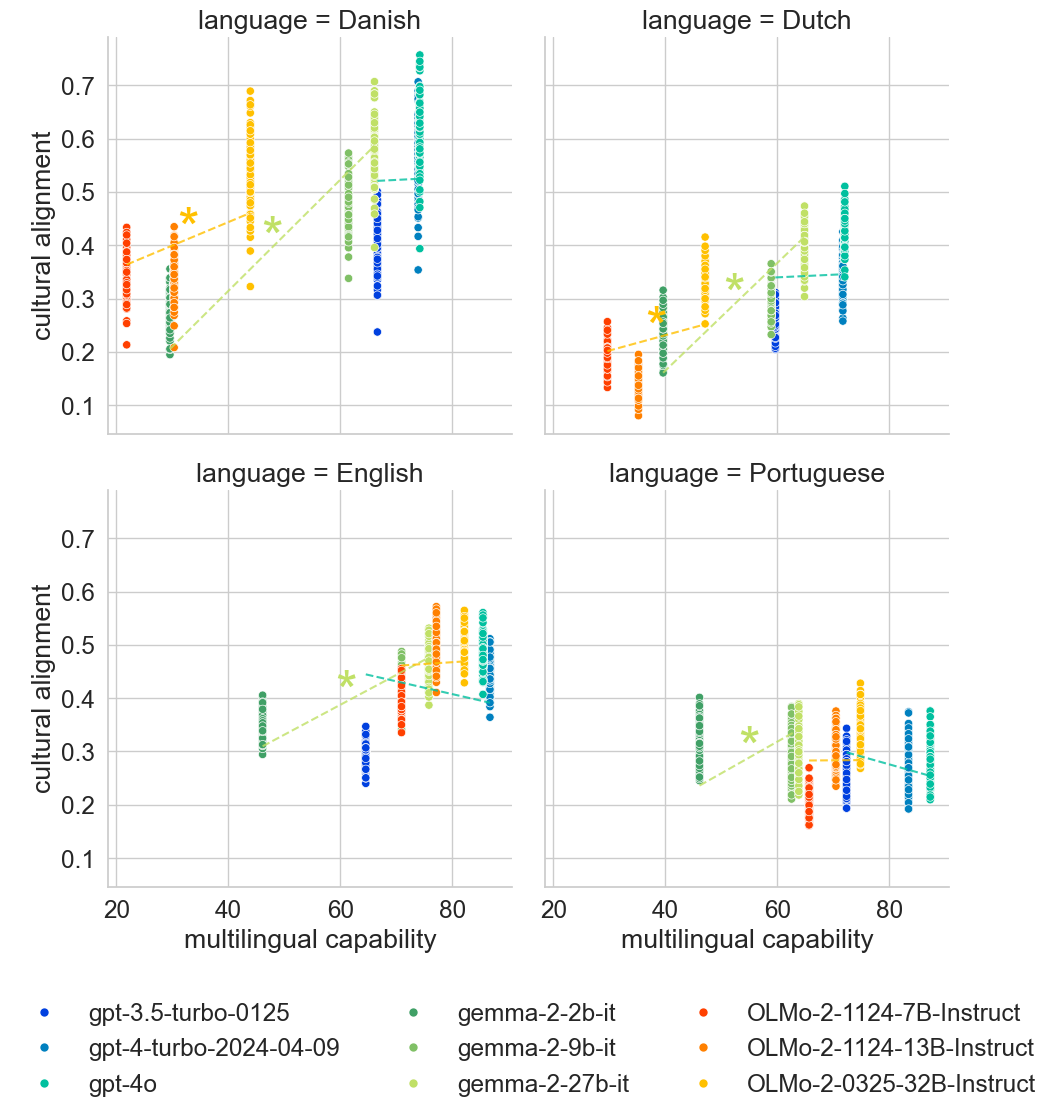
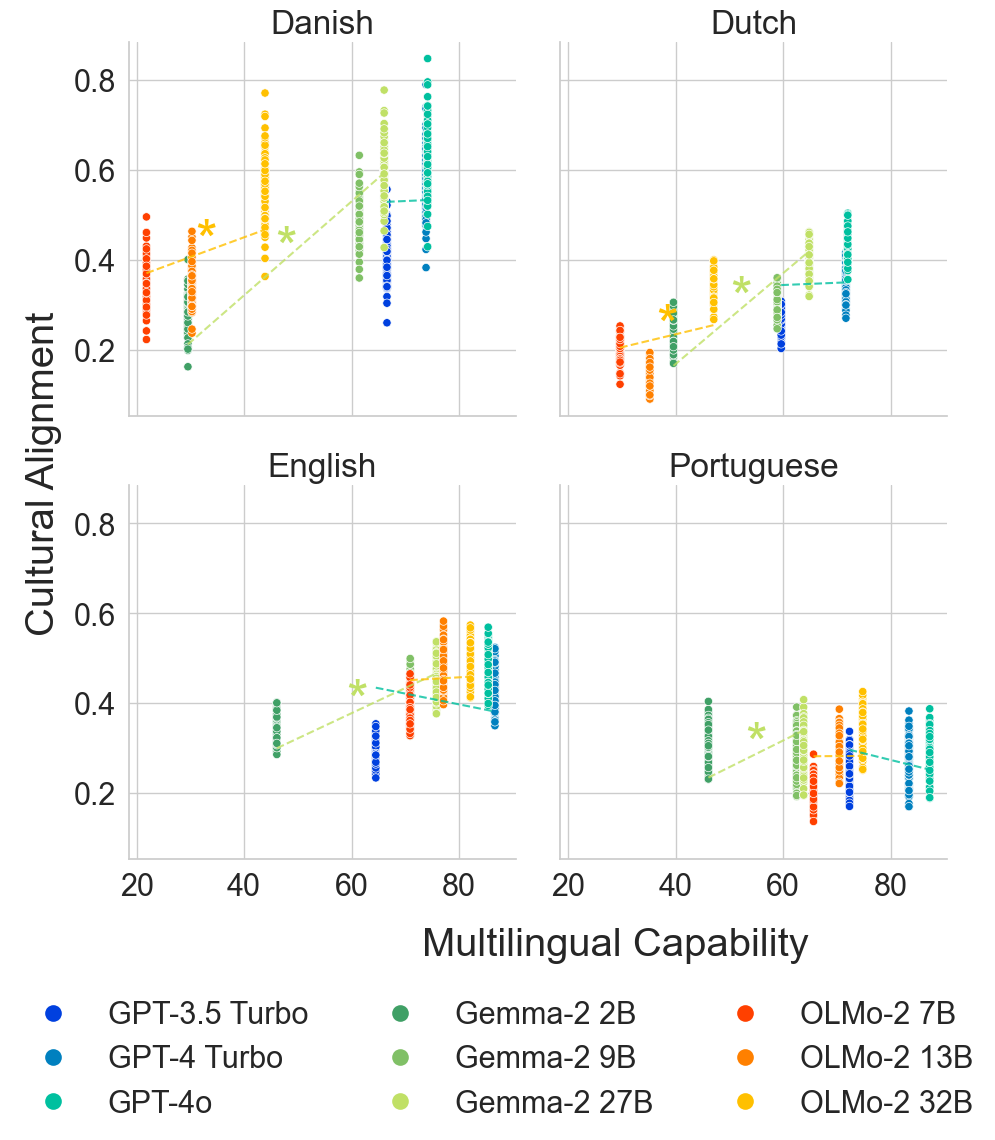
update plots

diff --git a/scripts/plot_multilingual_benchmarks.py b/scripts/plot_multilingual_benchmarks.py
@@ -12,7 +12,7 @@ from tqdm import tqdm
 
 from multicultural_alignment.constants import COUNTRY_LANG_MAP, LANGUAGE_MAP, OUTPUT_DIR, PLOT_DIR
 from multicultural_alignment.models import add_families_df, get_model_enum
-from multicultural_alignment.plot import get_family_color_dict, get_model_color_dict
+from multicultural_alignment.plot import get_family_color_dict, get_model_color_dict, rename_color_dict
 from multicultural_alignment.regression import extract_results_df, extract_term, save_regression_results
 
 
@@ -40,6 +40,17 @@ MODEL_NAME_MAPPING = {
 ADJUSTMENT_FORMULAS = {
     "interaction": "alignment ~ 0 + consistency:language + language:model_name",
     "normal": "alignment ~ 0 + consistency + language:model_name",
+}
+CLEAN_MODEL_NAMES = {
+    "gpt-3.5-turbo-0125": "GPT-3.5 Turbo",
+    "gpt-4-turbo-2024-04-09": "GPT-4 Turbo",
+    "gpt-4o": "GPT-4o",
+    "gemma-2-2b-it": "Gemma-2 2B",
+    "gemma-2-9b-it": "Gemma-2 9B",
+    "gemma-2-27b-it": "Gemma-2 27B",
+    "OLMo-2-1124-7B-Instruct": "OLMo-2 7B",
+    "OLMo-2-1124-13B-Instruct": "OLMo-2 13B",
+    "OLMo-2-0325-32B-Instruct": "OLMo-2 32B",
 }
 
 
@@ -258,13 +269,20 @@ if __name__ == "__main__":
         "--regression-type",
         type=str,
         choices=["normal", "no_consistency", "interaction"],
-        default="normal",
+        default="interaction",
         help="Type of regression to use for plotting coefficients",
+    )
+    parser.add_argument(
+        "--font-scale",
+        type=float,
+        default=1.6,
+        help="Scale of the font in the plots",
     )
     args = parser.parse_args()
     regression_type = args.regression_type
+    font_scale = args.font_scale
+    sns.set_theme(font_scale=font_scale, style="whitegrid")
 
-    sns.set_theme(font_scale=1.6, style="whitegrid")
     benchmarks = get_benchmark_data()
     experiment_data = get_experiment_data()
     regression_data = get_language_regression_data(benchmarks=benchmarks, experiment_data=experiment_data)
@@ -278,8 +296,11 @@ if __name__ == "__main__":
         multilingual_coefficients=multilingual_coefficients,
         regression_data=regression_data,
         regression_type=regression_type,
+    ).with_columns(
+        pl.col("model_name").replace(CLEAN_MODEL_NAMES),
     )
 
+    color_dict = rename_color_dict(color_dict=get_model_color_dict(), new_names=CLEAN_MODEL_NAMES)
     plot = sns.relplot(
         data=benchmark_alignment,
         x="multilingual capability",
@@ -287,7 +308,8 @@ if __name__ == "__main__":
         hue="model_name",
         col="language",
         col_wrap=2,
-        palette=get_model_color_dict(),
+        facet_kws={"sharey": True, "sharex": True},
+        palette=color_dict,
     )
 
     # Now add regression lines for each language and family
@@ -323,5 +345,10 @@ if __name__ == "__main__":
                 offset = (ax.get_ylim()[1] - ax.get_ylim()[0]) * 0.05
                 ax.text(x_mid, y_mid - offset, "*", ha="center", va="bottom", color=family_colours[family], fontsize=40)
 
-    sns.move_legend(plot, "upper center", bbox_to_anchor=(0.41, -0.0), ncol=3, title=None)
+    sns.move_legend(plot, "upper center", bbox_to_anchor=(0.41, -0.0), ncol=3, title=None, markerscale=2.0)
+    plot.set_titles(col_template="{col_name}")
+    plot.set_axis_labels("", "")
+    plot.figure.supxlabel("Multilingual Capability")
+    plot.figure.supylabel("Cultural Alignment", x=0.05)
+    # Increase size of the dot marker in the legend
     plt.savefig(PLOT_DIR / "multilingual_benchmarks_alignment-model.png", bbox_inches="tight")

diff --git a/scripts/analyze_batch.py b/scripts/analyze_batch.py
@@ -2,10 +2,11 @@ import json
 from pathlib import Path
 
 import pandas as pd
+import polars as pl
 
 import multicultural_alignment.score as score
 from multicultural_alignment import fileio
-from multicultural_alignment.constants import OUTPUT_DIR
+from multicultural_alignment.constants import DATA_DIR, OUTPUT_DIR
 from multicultural_alignment.data import get_family_data, get_family_string
 from multicultural_alignment.models import MODEL_FAMILIES, get_model_family, get_model_name
 from multicultural_alignment.schemas import AnalysisResponse
@@ -95,7 +96,7 @@ def get_data_pipeline():
 
     # full_df = pd.concat([full_openai_mistral, full_gpt4o, full_gemma], ignore_index=True).reset_index(drop=True)
     # assert full_df.loc[0, "model"].startswith("gpt-4-turbo"), "Model name does not start with gpt-4-turbo"
-    full_df.to_csv("data/lang_model_responses_raw.csv", index=False)
+    full_df.to_csv(DATA_DIR / "lang_model_responses_raw.csv", index=False)
 
     ground_truth = pd.read_csv(OUTPUT_DIR / "ground_truth.csv").rename(columns={"pro_score": "ground_truth_pro_score"})
     all_results = (
@@ -106,7 +107,7 @@ def get_data_pipeline():
     all_results = all_results.assign(
         model_family=all_results["model"].apply(get_model_family), model_name=all_results["model"].apply(get_model_name)
     )
-    all_results["model_name"].unique()
+    pl.from_pandas(all_results).write_parquet(DATA_DIR / "lang_model_responses_with_scores.parquet")
 
     columns_to_save = [
         "model_name",

diff --git a/scripts/prepare_data_for_hf.py b/scripts/prepare_data_for_hf.py
@@ -1,0 +1,31 @@
+import polars as pl
+
+from multicultural_alignment.directories import DATA_DIR
+
+if __name__ == "__main__":
+    results = (
+        pl.read_parquet(DATA_DIR / "lang_model_responses_with_scores.parquet")
+        .filter(
+            (pl.col("language") == pl.col("response_language"))
+            & (pl.col("template_type") == "survey_hypothetical")
+            & (pl.col("model_family").is_in({"openai", "gemma", "olmo"}))
+        )
+        .select(
+            "model_name",
+            "model_family",
+            "language",
+            "prompt",
+            "topic",
+            "question_key",
+            "response",
+            "response_pro_con",
+            "response_pro_score",
+            "ground_truth_pro_score",
+        )
+    )
+    results["model_name"].value_counts()
+
+    clean_results = results.with_columns(
+        pl.Series("prompt", [row["prompt"].format(topic=row["topic"]) for row in results.iter_rows(named=True)])
+    )
+    clean_results.write_parquet(DATA_DIR / "cleaned_lang_model_responses_with_scores.parquet")

diff --git a/src/multicultural_alignment/plot.py b/src/multicultural_alignment/plot.py
@@ -20,6 +20,10 @@ def get_model_color_dict() -> dict[str, tuple]:
     return {model: color for family_palette in color_palettes.values() for model, color in family_palette.items()}
 
 
+def rename_color_dict(new_names: dict[str, str], color_dict: dict[str, tuple]) -> dict[str, tuple]:
+    return {new_names.get(model, model): color for model, color in color_dict.items()}
+
+
 def _last_value(dictionary: dict) -> tuple:
     return list(dictionary.values())[-1]
 
